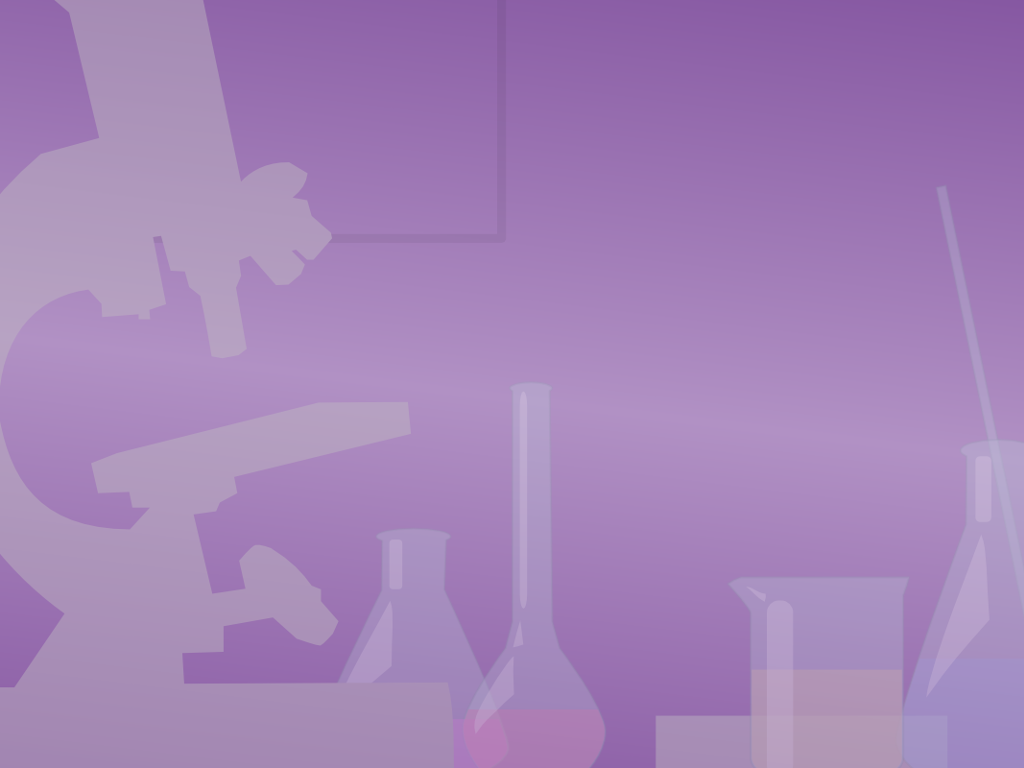
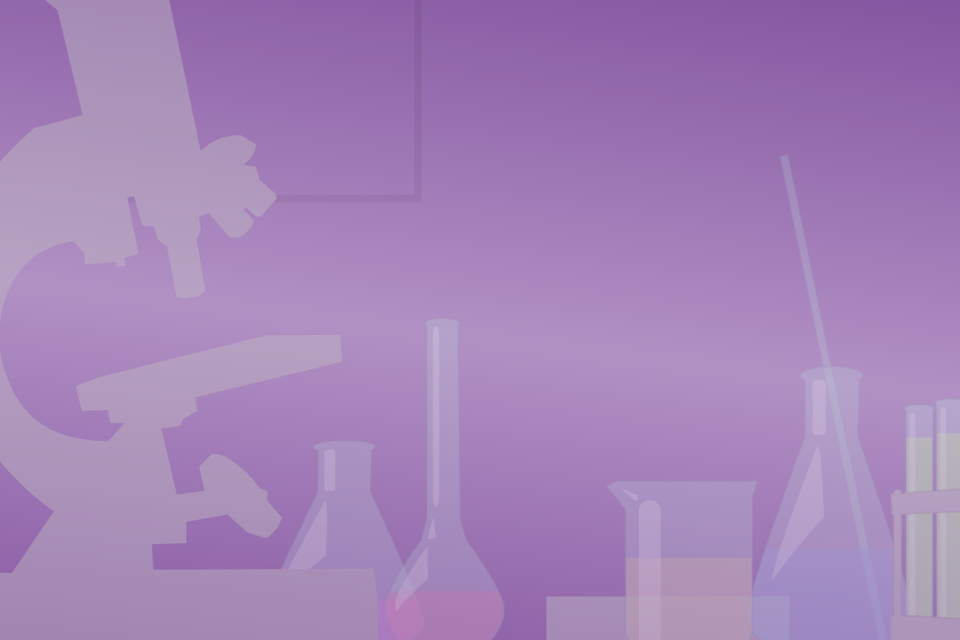
960x640

diff --git a/src/Boot.js b/src/Boot.js
@@ -32,28 +32,20 @@ BasicGame.Boot.prototype = {
         this.input.maxPointers = 1;
         this.stage.disableVisibilityChange = true;
 
+        BasicGame.orientated = true;
+        this.scale.scaleMode = Phaser.ScaleManager.SHOW_ALL;
+        this.scale.minWidth = 480;
+        this.scale.minHeight = 320;
+        this.scale.maxWidth = 960;
+        this.scale.maxHeight = 640;
+        this.scale.pageAlignHorizontally = true;
+        this.scale.pageAlignVertically = true;
 	    if (this.game.device.desktop)
         {
-            BasicGame.orientated = true;
-            this.scale.scaleMode = Phaser.ScaleManager.SHOW_ALL;
-            this.scale.minWidth = 480;
-            this.scale.minHeight = 260;
-            this.scale.maxWidth = 1024;
-            this.scale.maxHeight = 768;
-            this.scale.pageAlignHorizontally = true;
-            this.scale.pageAlignVertically = true;
             this.scale.setScreenSize(true);
         }
         else
         {
-            BasicGame.orientated = true;
-            this.scale.scaleMode = Phaser.ScaleManager.EXACT_FIT;
-            this.scale.minWidth = 480;
-            this.scale.minHeight = 260;
-            this.scale.maxWidth = 1024;
-            this.scale.maxHeight = 768;
-            this.scale.pageAlignHorizontally = true;
-            this.scale.pageAlignVertically = true;
             this.scale.forceOrientation(true, false);
             this.scale.hasResized.add(this.gameResized, this);
             this.scale.enterIncorrectOrientation.add(this.enterIncorrectOrientation, this);

diff --git a/src/Preloader.js b/src/Preloader.js
@@ -17,8 +17,8 @@ BasicGame.Preloader.prototype = {
 		//	A nice sparkly background and a loading progress bar
 		this.add.sprite(0, 0, 'preloaderBackground');
 
-        var barX = (1024 - 900) / 2;
-        var barY = this.game.height - 100;
+        var barX = (960 - 800) / 2;
+        var barY = this.game.height - 75;
         this.add.sprite(barX, barY, 'preloaderBarGray');
 		this.preloadBar = this.add.sprite(barX, barY, 'preloaderBar');
 
@@ -30,7 +30,7 @@ BasicGame.Preloader.prototype = {
 		//	Here we load the rest of the assets our game needs.
 		//	As this is just a Project Template I've not provided these assets, the lines below won't work as the files themselves will 404, they are just an example of use.
 		// this.load.atlas('playButton', 'images/button_sprite_sheet.png', 'images/button_sprite_sheet.json');
-        this.load.image('ga', 'images/ga1024.png');
+        this.load.image('ga', 'images/ga.png');
         this.load.image('sponsor', 'images/sponsor1024.png');
         this.load.audio('gaHeartbeat', ['audio/heartbeat.mp3', 'audio/heartbeat.ogg']);
 

diff --git a/src/MainMenu.js b/src/MainMenu.js
@@ -17,17 +17,17 @@ BasicGame.MainMenu.prototype = {
 
 		this.music = this.add.audio('titleMusic');
         this.game.soundMute = false;
-		this.music.play();
+		// this.music.play();
 
         this.background = this.add.sprite(0, 0, 'backgroundMenu');
-        this.title = this.add.sprite(this.game.width / 2, this.game.height / 3, 'title');
-        this.title.anchor.setTo(0.5, 0.5);
-        var soundX = soundY = 25
+        this.title = this.add.sprite(0, 25, 'title');
+        var soundX = 25, soundY = 25;
         this.soundButonOn = this.add.button(soundX, soundY, 'soundOn', function() { self.switchSound(); });
         this.soundButonOff = this.add.button(soundX, soundY, 'soundOff', function() { self.switchSound(); });
         this.soundButonOff.visible = false;
 
-		this.playButton = this.add.button(400, 600, 'playButton', this.startGame, this, 2, 1, 0);
+		this.playButton = this.add.button(this.game.width / 2, this.game.height - 100, 'playButton', this.startGame, this, 2, 1, 0);
+        this.playButton.anchor.setTo(0.5, 0.5);
 	},
 
 	update: function () {

diff --git a/index.html b/index.html
@@ -53,7 +53,7 @@
 	//	Create your Phaser game and inject it into the game div.
 	//	We did it in a window.onload event, but you can do it anywhere (requireJS load, anonymous function, jQuery dom ready, - whatever floats your boat)
 	//	We're using a game size of 1024 x 768 here, but you can use whatever you feel makes sense for your game of course.
-	var game = new Phaser.Game(1024, 768, Phaser.AUTO, 'game');
+	var game = new Phaser.Game(960, 640, Phaser.AUTO, 'game');
 
 	//	Add the States your game has.
 	//	You don't have to do this in the html, it could be done in your Boot state too, but for simplicity I'll keep it here.

diff --git a/src/Scoreboard.js b/src/Scoreboard.js
@@ -16,7 +16,7 @@ var Scoreboard = function(game) {
     this.add(this.bestScoreText);
 
     // add our start button with a callback
-	this.startButton = this.game.add.button(this.game.width/2, 600, 'playButton', this.startClick, this, 2, 1, 0);
+	this.startButton = this.game.add.button(this.game.width/2, this.game.height - 100, 'playButton', this.startClick, this, 2, 1, 0);
     this.startButton.anchor.setTo(0.5,0.5);
 
 	this.add(this.startButton);
